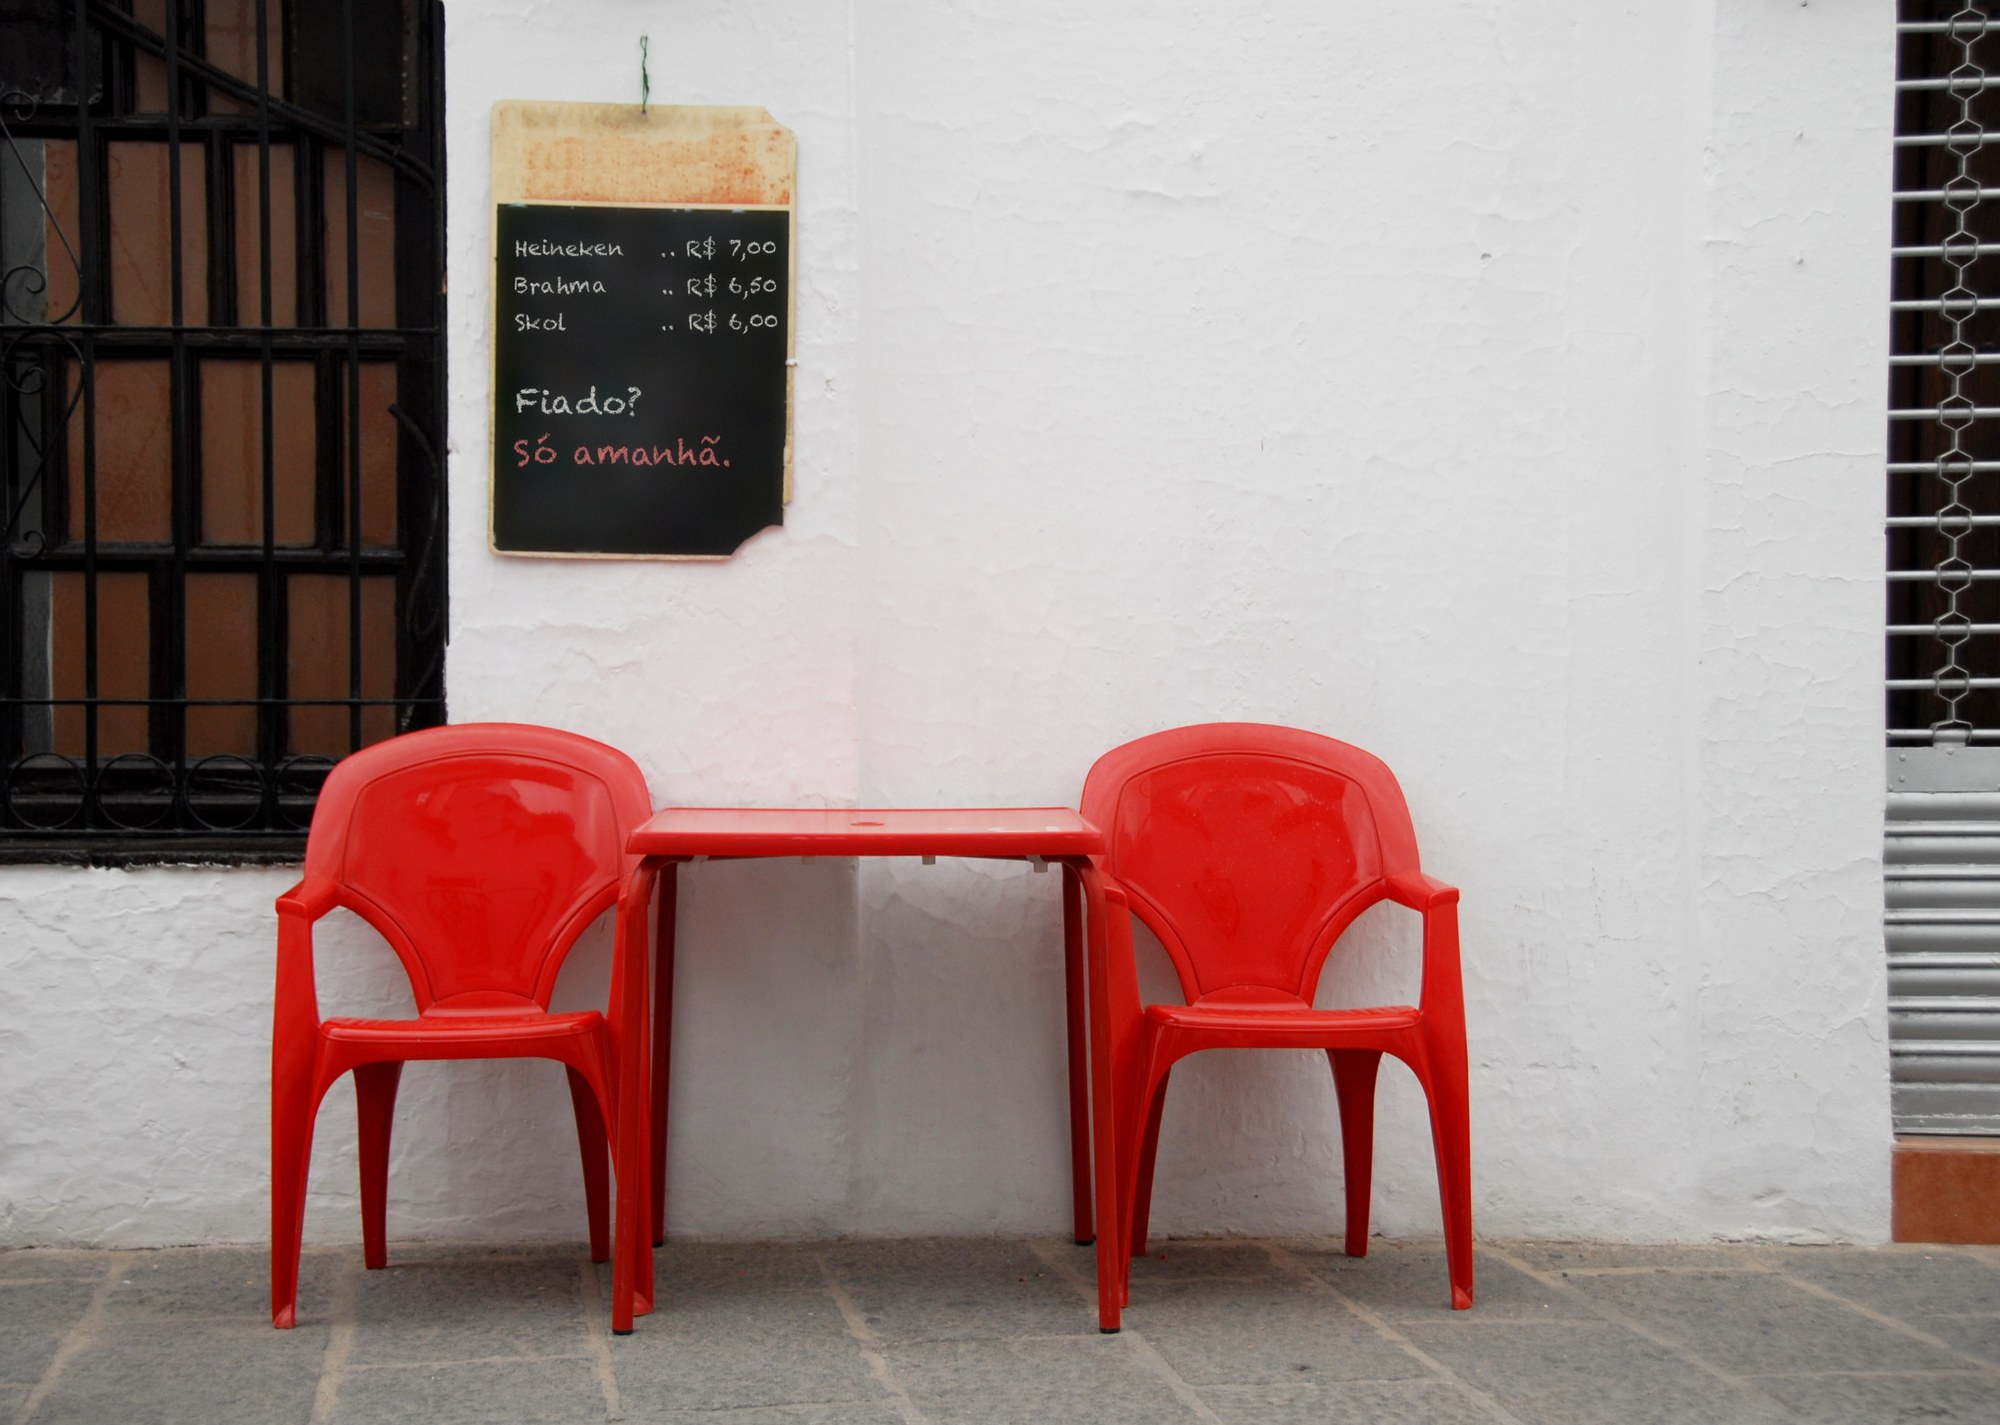
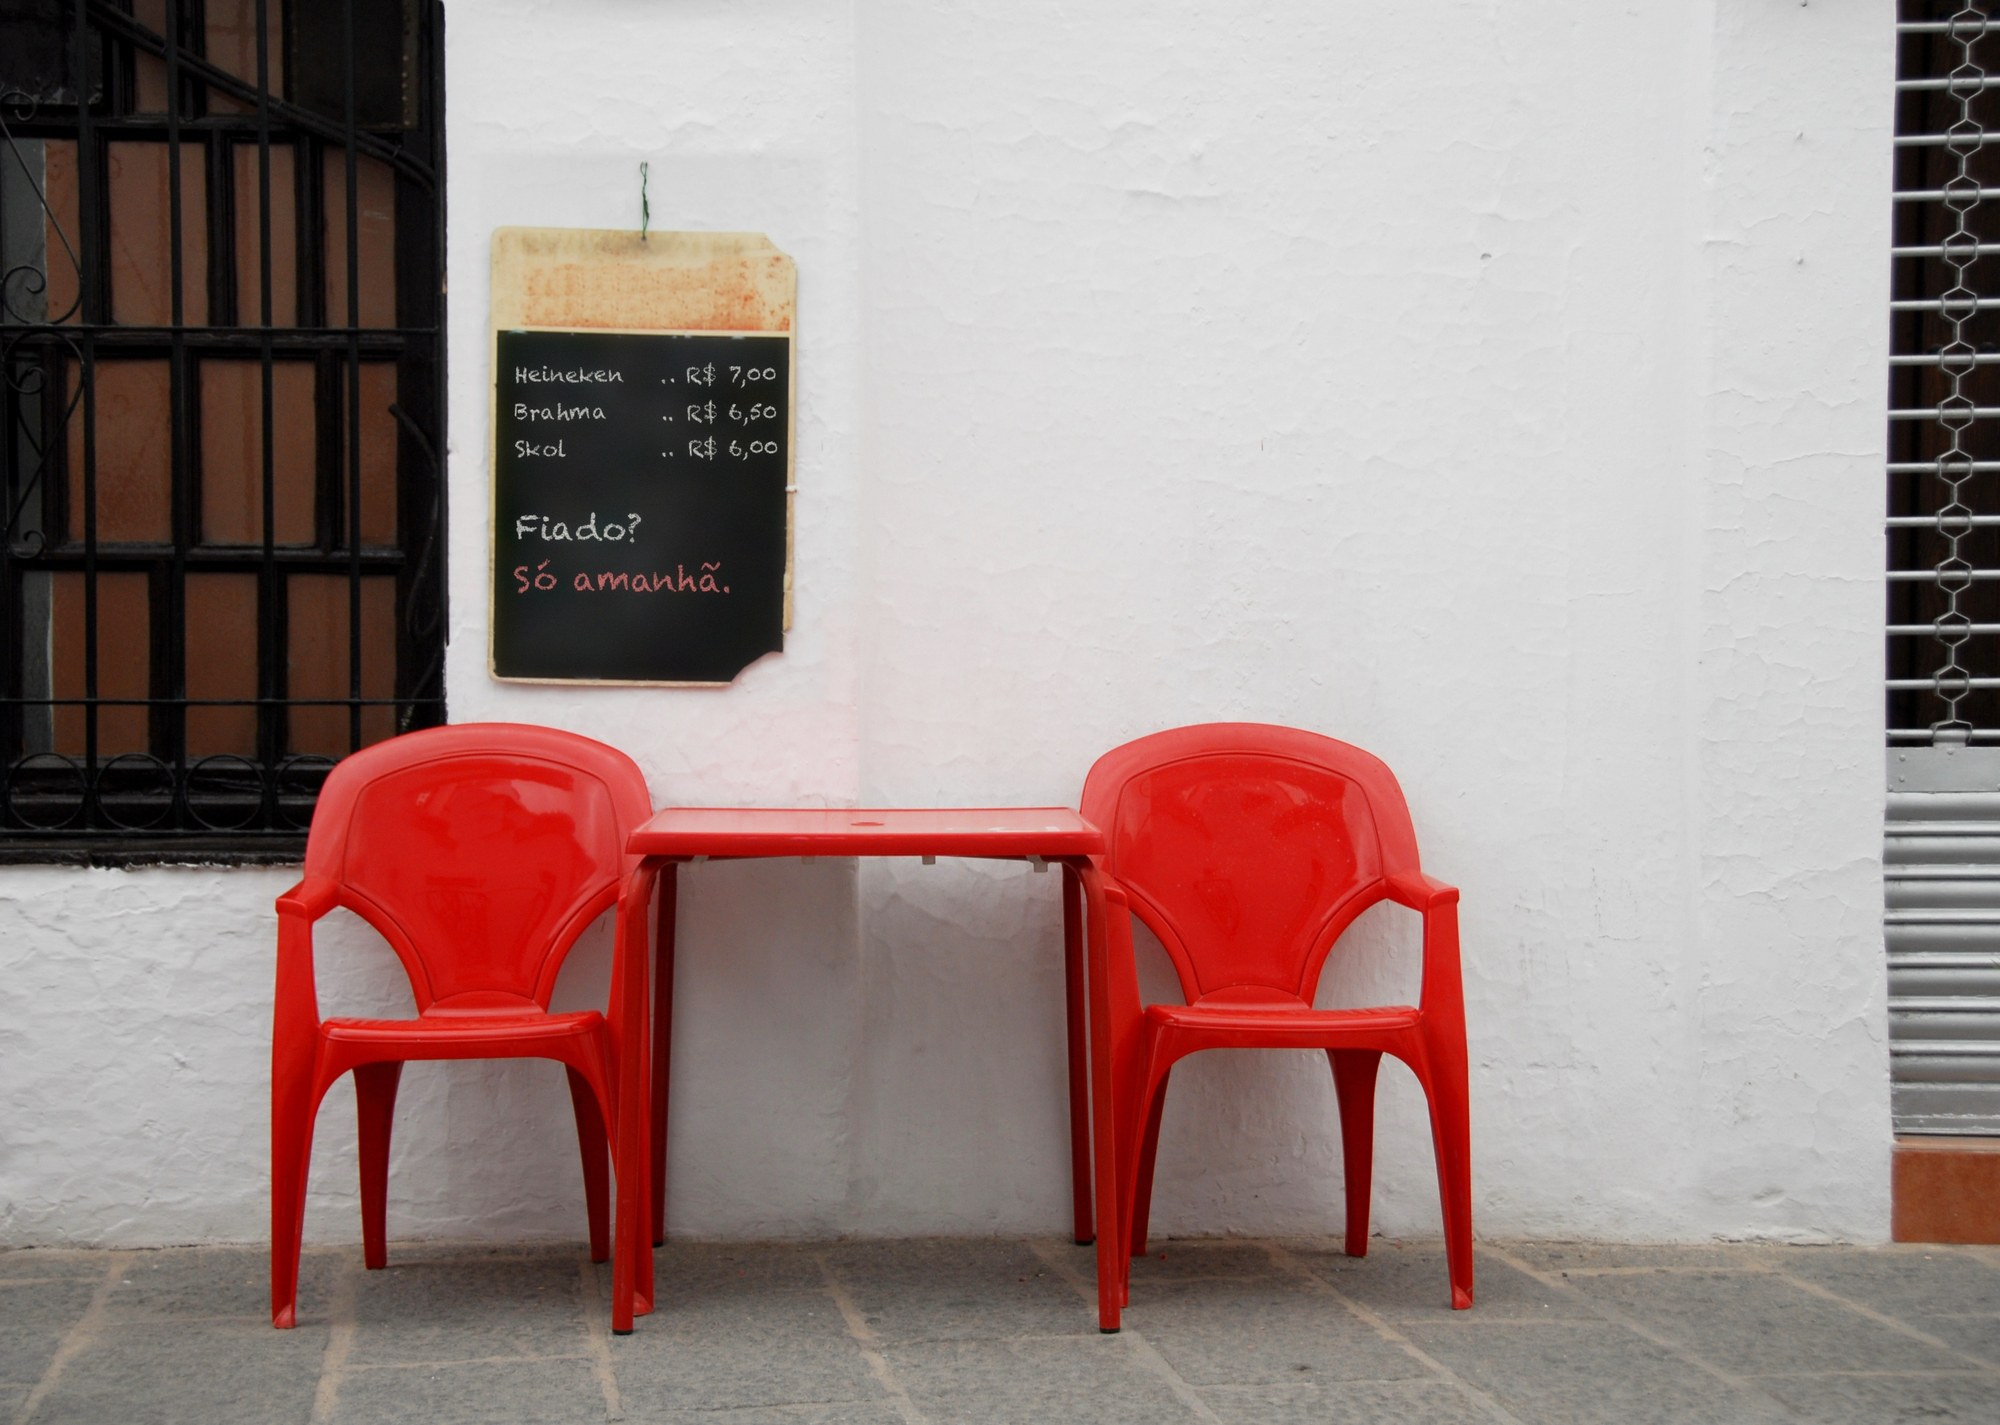
Reposiciona a lousa na capa para caber em todos os cortes

Changed region(s): [[0.217, 0.0309, 0.403, 0.494]]

diff --git a/src/content/articles/fiado-so-amanha.md b/src/content/articles/fiado-so-amanha.md
@@ -7,7 +7,7 @@ author: João Andrade
 date: 2026-09-25T00:00:00.000Z
 readTime: 6 min
 heroImage: /assets/capa-fiado.jpg
-heroPosition: 30% 45%
+heroPosition: 30% 30%
 linhaFina: >-
   Nos botequins de antigamente havia uma placa que todo freguês entendia sem ler
   duas vezes, porque o amanhã dela nunca chegava. O cartão e o Pix a aposentaram
